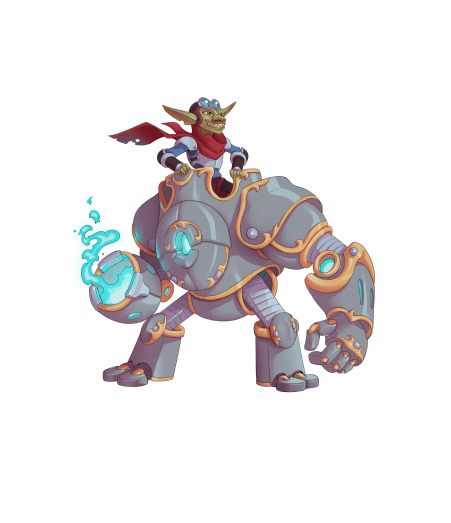
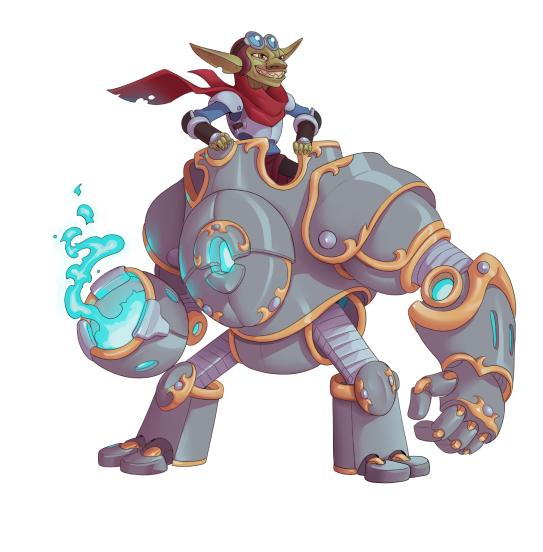
fix: redo main screen

diff --git a/src/components/sections/MainInfo/MainInfo.tsx b/src/components/sections/MainInfo/MainInfo.tsx
@@ -13,59 +13,45 @@ import styles from "./styles.module.css";
 const MainInfo = () => {
   return (
     <div className="flex flex-col items-center lg:pt-20 xl:pt-32 " id={HeaderLink.MAIN}>
-      <div data-aos="fade-up" className="flex flex-col lg:-mt-24 xl:-mt-36 items-center lg:flex-row w-full text-center md:items-start  md:text-left overflow-x-hidden lg:overflow-x-visible">
-        <div className={styles.text + " flex flex-col justify-center max-w-xl lg:mt-8 xl:mt-16"}>
-          <Text className="mb-2 uppercase mx-auto sm:mx-0" fontSize={18} lineHeight="24px" fontWeight="bold" maxWidth="90%" letterSpacing="0.18em" color="#8A978C">Open world PVP game</Text>
-          <Text type="h1" className="mb-4">Conquer lands, mine token and fight for resourses</Text>
-          <div className='flex flex-col md:flex-row'>
+      <div data-aos="fade-up" className={styles.screen + " flex flex-col lg:-mt-24 xl:-mt-36 items-center w-full text-center md:items-start  md:text-left overflow-x-hidden md:overflow-x-visible relative"}>
+        <div className={styles.text + " mb-6 sm:mb-20 flex flex-col justify-center z-20 right-0 left-0 mx-auto"}>
+          {/* <Text className="mb-2 uppercase mx-auto sm:mx-0" fontSize={18} lineHeight="24px" fontWeight="bold" maxWidth="90%" letterSpacing="0.18em" color="#8A978C">Open world PVP game</Text> */}
+          <Text type="h1" className="mb-4 text-center">Conquer lands, mine token and fight for resourses</Text>
+          <div className='flex flex-col md:flex-row max-w-md mx-auto'>
             <div
               className='h-12 ml-auto mr-auto mb-2.5 md:mb-0 md:ml-0 md:mr-2.5'>
               <img
                 style={{ maxWidth: '3.2rem' }}
                 src='/main/terra.png' />
             </div>
-            <Text type="h4" className="">Online browser role-playing game on Terra Blockchain</Text>
+            <Text type="h4" className="text-center px-4 sm:px-0">Open world PVP browser role-playing game on Terra Blockchain</Text>
 
           </div>
         </div>
-        <div className={styles.image + "px-28 md:px-0 flex mb-14 h-full relative justify-center self-center items-center pointer-events-none"}>
-          <div className="relative z-1 -mr-20 sm:-mr-28 -mt-12 md:-mt-24 flex justify-center">
+        <div className={styles.image + " w-full h-full px-0 md:px-10 xl:px-4 flex mb-6 h-full relative justify-center self-center items-center pointer-events-none"}>
+          <div className="relative z-1 -mr-20 sm:-mr-36 -mt-4 md:-mt-16 flex justify-center">
             <picture  >
-              <source media="(max-width: 768px)" srcSet="/main/character2M.png" />
+              <source media="(max-width: 768px)" srcSet="/main/character2.png" />
               <source media="(min-width: 769px)" srcSet="/main/character2.png" />
-              <img src="/main/character2.png" className="animate-levitate absolute mx-auto right-0 left-0 my-auto -top-2 bottom-0" />
-            </picture>
-            <picture  >
-              <source media="(max-width: 768px)" srcSet="/main/secondaryBackM.png" />
-              <source media="(min-width: 769px)" srcSet="/main/secondaryBack.png" />
-              <img src="/main/secondaryBack.png" />
+              <img src="/main/character2.png" className="animate-levitate mx-auto right-0 left-0 my-auto -top-2 bottom-0" />
             </picture>
           </div>
-          <div className="relative -mt-2 sm:-mt-14 flex justify-center" style={{ zIndex: 2 }}>
+          <div className="relative -mt-2 sm:-mt-20 flex justify-center" style={{ zIndex: 2 }}>
             <picture >
-              <source media="(max-width: 768px)" srcSet="/main/character1M.png" />
+              <source media="(max-width: 768px)" srcSet="/main/character1.png" />
               <source media="(min-width: 769px)" srcSet="/main/character1.png" />
               <img src="/main/character1.png"
-                className="animate-levitate3 absolute mx-auto right-0 left-0 my-auto -top-2 sm:-top-4 bottom-0" />
-            </picture>
-            <picture>
-              <source media="(max-width: 768px)" srcSet="/main/primaryBackM.png" />
-              <source media="(min-width: 769px)" srcSet="/main/primaryBack.png" />
-              <img src="/main/primaryBack.png" />
+                className="animate-levitate3 mx-auto right-0 left-0 my-auto -top-2 sm:-top-4 bottom-0" />
             </picture>
           </div>
           <div className="relative -ml-20 sm:-ml-28 z-1 -mt-12 md:-mt-24 flex justify-center">
             <picture  >
-              <source media="(max-width: 768px)" srcSet="/main/character3M.png" />
+              <source media="(max-width: 768px)" srcSet="/main/character3.png" />
               <source media="(min-width: 769px)" srcSet="/main/character3.png" />
-              <img src="/main/character3.png" className="animate-levitate2 absolute mx-auto right-0 left-0 my-auto -top-6 sm:top-0 bottom-0" style={{ maxHeight: 250 }} />
-            </picture>
-            <picture  >
-              <source media="(max-width: 768px)" srcSet="/main/secondaryBackM.png" />
-              <source media="(min-width: 769px)" srcSet="/main/secondaryBack.png" />
-              <img src="/main/secondaryBack.png" />
+              <img src="/main/character3.png" className="animate-levitate2 mx-auto right-0 left-0 my-auto -top-6 sm:top-0 bottom-0" />
             </picture>
           </div>
+          <img src="/main/shadow.png" className={styles.shadow + " w-full absolute"} />
         </div>
       </div>
       <FreeToPlay />

diff --git a/src/components/sections/MainInfo/styles.module.css b/src/components/sections/MainInfo/styles.module.css
@@ -1,15 +1,38 @@
 .text {
     width: 100%
 }
-.image {
-    width: 120%;
+.image{
+    top:0;
 }
-@media (min-width: 1024px) {
+.shadow{
+    bottom: 0;
+}
+@media (min-width: 1025px) {
     .text {
-        width: 45%
-    }
-    .image {
         width: 65%;
+        position:absolute;
+        margin-bottom: 0;
+        bottom: 27%;
+    }
+    .screen{
+        height: 100vh;
+        margin-bottom: -8rem;
+    }
+    .image{
+        top:-6.5rem;
+    }
+    .shadow{
+        bottom: 15%;
+    }
+}
+@media (min-width: 1440px) {
+    .shadow{
+        bottom: 18%;
+    }
+}
+@media (min-width: 1580px) {
+    .shadow{
+        bottom: 22%;
     }
 }
 .buttonText {

diff --git a/src/components/sections/Token/Token.tsx b/src/components/sections/Token/Token.tsx
@@ -64,7 +64,7 @@ const Token = () => {
   if (isXl) {
     return (
       <div data-aos="fade-up" className="justify-center relative items-center self-center">
-        <div className="overflow-hidden absolute">
+        <div className="overflow-hidden absolute left-0 right-0">
           <TokenBackground />
         </div>
         <Container disableVerticalPadding={true}>

diff --git a/src/styles/globals.css b/src/styles/globals.css
@@ -1,7 +1,8 @@
 html,
 body,
 #__next {
-  background: no-repeat top/100% url(../../public/common/background.png) #0D1420;
+  background: no-repeat url(../../public/common/background.png) #0D1420;
+  background-size: 100% 100%;
   padding: 0;
   margin: 0;
   height: 100vh;

diff --git a/src/components/common/Text/styles.module.css b/src/components/common/Text/styles.module.css
@@ -30,3 +30,14 @@
     cursor: pointer;
     color: #FFEB3D;
 }
+
+@media (max-width: 768px) {
+    .h1 {
+        font-size: 36px;
+        line-height: 40px;
+    }
+    .h4 {
+        font-size: 16px;
+        line-height: 24px;
+    }
+}
